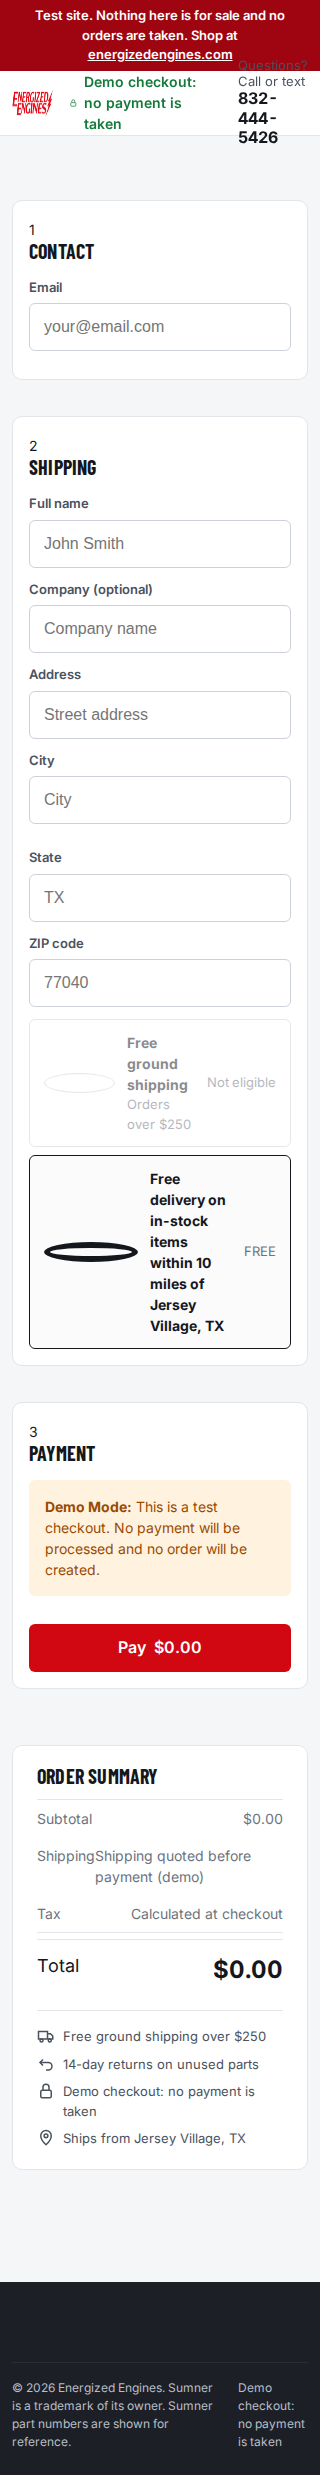
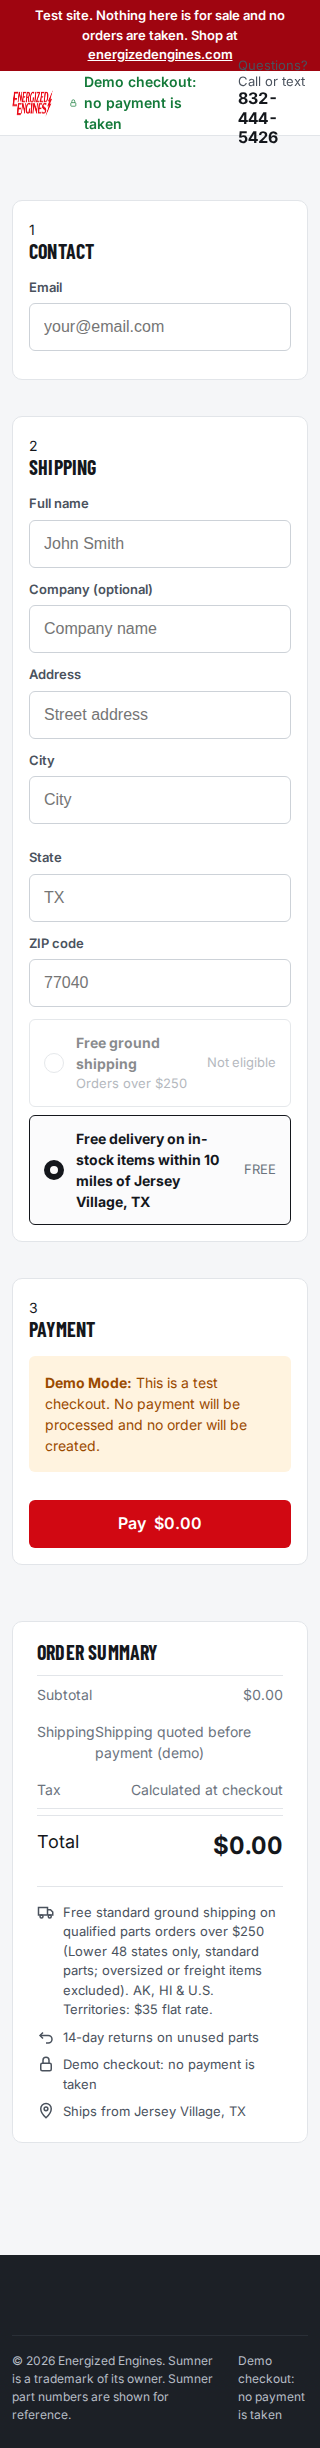
Add shipping policy to cart page via build script

diff --git a/scripts/verify-iris-polish.js b/scripts/verify-iris-polish.js
@@ -1,0 +1,191 @@
+#!/usr/bin/env node
+/**
+ * Verify Iris polish changes
+ */
+
+const fs = require('fs');
+const path = require('path');
+
+const DOCS_DIR = path.join(__dirname, '..', 'docs');
+let errors = [];
+let checks = 0;
+let passed = 0;
+
+console.log('\n🔍 VERIFYING IRIS POLISH CHANGES\n');
+console.log('='.repeat(70));
+
+// Check A: .eeband .card CSS rule
+console.log('\nA. EE band card color for contrast...');
+checks++;
+const cssContent = fs.readFileSync(path.join(DOCS_DIR, 'pages.css'), 'utf8');
+if (cssContent.includes('.eeband .card{color:var(--ink)}')) {
+  console.log('   ✓ CSS rule added');
+  passed++;
+} else {
+  console.log('   ✗ CSS rule missing');
+  errors.push('Missing .eeband .card{color:var(--ink)} rule');
+}
+
+// Check B: Checkout radio inputs
+console.log('\nB. Checkout shipping options with real radio inputs...');
+checks += 4;
+const checkoutHtml = fs.readFileSync(path.join(DOCS_DIR, 'checkout.html'), 'utf8');
+
+if (checkoutHtml.includes('<input type="radio" name="ship"')) {
+  console.log('   ✓ Real radio inputs added');
+  passed++;
+} else {
+  console.log('   ✗ Radio inputs missing');
+  errors.push('Missing radio inputs in checkout');
+}
+
+if (checkoutHtml.match(/<input type="radio" name="ship"/g)?.length >= 2) {
+  console.log('   ✓ Multiple radio options present');
+  passed++;
+} else {
+  console.log('   ✗ Need multiple radio options');
+  errors.push('Need at least 2 radio options');
+}
+
+if (cssContent.includes('.rate>div:not(.rd){flex:1')) {
+  console.log('   ✓ CSS layout for radio buttons');
+  passed++;
+} else {
+  console.log('   ✗ CSS layout missing');
+  errors.push('Missing .rate>div:not(.rd){flex:1} rule');
+}
+
+if (cssContent.includes('.rd{width:20px;height:20px')) {
+  console.log('   ✓ Radio dot sizing correct');
+  passed++;
+} else {
+  console.log('   ✗ Radio dot sizing incorrect');
+  errors.push('.rd sizing incorrect');
+}
+
+// Check C: Home EE brand link color
+console.log('\nC. Home EE brand link color...');
+checks++;
+const indexHtml = fs.readFileSync(path.join(DOCS_DIR, 'index.html'), 'utf8');
+if (indexHtml.includes('Shop all') && indexHtml.includes('EE brand parts</a>') && 
+    indexHtml.includes('style="color:var(--on-dark-2)"')) {
+  console.log('   ✓ Link color set to var(--on-dark-2)');
+  passed++;
+} else {
+  console.log('   ✗ Link color not set correctly');
+  errors.push('EE brand link color incorrect');
+}
+
+// Check D: Product pages without inline max-height:600px
+console.log('\nD. Product images without inline max-height:600px...');
+checks++;
+const productFiles = fs.readdirSync(path.join(DOCS_DIR, 'products')).filter(f => f.endsWith('.html'));
+let withMaxHeight = 0;
+productFiles.forEach(file => {
+  const content = fs.readFileSync(path.join(DOCS_DIR, 'products', file), 'utf8');
+  if (content.includes('max-height:600px')) {
+    withMaxHeight++;
+  }
+});
+
+if (withMaxHeight === 0) {
+  console.log(`   ✓ 0 of ${productFiles.length} product pages have inline max-height:600px`);
+  passed++;
+} else {
+  console.log(`   ✗ ${withMaxHeight} of ${productFiles.length} product pages still have inline max-height:600px`);
+  errors.push(`${withMaxHeight} pages still have max-height:600px`);
+}
+
+// Check E: After Market parser and oldPrice count
+console.log('\nE. After Market parser (case-insensitive) and oldPrice values...');
+checks += 2;
+const searchData = JSON.parse(fs.readFileSync(path.join(DOCS_DIR, 'search-data.json'), 'utf8'));
+const withOldPrice = searchData.parts.filter(p => p.oldPrice);
+
+if (withOldPrice.length === 34) {
+  console.log(`   ✓ Exactly 34 parts with oldPrice (expected 34)`);
+  passed++;
+} else {
+  console.log(`   ✗ ${withOldPrice.length} parts with oldPrice (expected 34)`);
+  errors.push(`Expected 34 oldPrice entries, got ${withOldPrice.length}`);
+}
+
+// Check EE 1004 specifically
+const ee1004 = searchData.parts.find(p => p.partNumber === 'EE 1004');
+if (ee1004 && ee1004.oldPrice === '226' && ee1004.price === '120.00') {
+  const savings = (226 - 120).toFixed(2);
+  const percent = Math.round(((226 - 120) / 226) * 100);
+  console.log(`   ✓ EE 1004 shows savings: $${savings} (${percent}%)`);
+  passed++;
+} else {
+  console.log(`   ✗ EE 1004 savings incorrect`);
+  errors.push('EE 1004 does not show correct savings');
+}
+
+// Check F: Shipping policy text
+console.log('\nF. Shipping policy text on cart and checkout...');
+checks += 2;
+const cartHtml = fs.readFileSync(path.join(DOCS_DIR, 'cart.html'), 'utf8');
+const policyText = 'Free standard ground shipping on qualified parts orders over $250';
+
+if (cartHtml.includes(policyText)) {
+  console.log('   ✓ Shipping policy text in cart');
+  passed++;
+} else {
+  console.log('   ✗ Shipping policy text missing from cart');
+  errors.push('Missing shipping policy in cart');
+}
+
+if (checkoutHtml.includes(policyText)) {
+  console.log('   ✓ Shipping policy text in checkout');
+  passed++;
+} else {
+  console.log('   ✗ Shipping policy text missing from checkout');
+  errors.push('Missing shipping policy in checkout');
+}
+
+// Check that key files weren't deleted
+console.log('\nKey files preserved...');
+checks += 5;
+const keyFiles = ['home.js', 'cart.js', 'search.js', 'config.js', 'checkout.html'];
+keyFiles.forEach(file => {
+  const filePath = path.join(DOCS_DIR, file);
+  if (fs.existsSync(filePath)) {
+    const stats = fs.statSync(filePath);
+    if (stats.size > 100) {
+      console.log(`   ✓ ${file} exists (${stats.size} bytes)`);
+      passed++;
+    } else {
+      console.log(`   ✗ ${file} is too small (${stats.size} bytes)`);
+      errors.push(`${file} is too small`);
+    }
+  } else {
+    console.log(`   ✗ ${file} missing`);
+    errors.push(`${file} was deleted`);
+  }
+});
+
+// Check README-checkout.md doesn't exist
+console.log('\nREADME-checkout.md check...');
+checks++;
+if (!fs.existsSync(path.join(DOCS_DIR, 'README-checkout.md'))) {
+  console.log('   ✓ README-checkout.md does not exist (good)');
+  passed++;
+} else {
+  console.log('   ✗ README-checkout.md exists (should not)');
+  errors.push('README-checkout.md should not exist');
+}
+
+// Summary
+console.log('\n' + '='.repeat(70));
+console.log(`\n📊 RESULTS: ${passed}/${checks} checks passed\n`);
+
+if (errors.length === 0) {
+  console.log('✅ ALL CHECKS PASSED\n');
+  process.exit(0);
+} else {
+  console.log('❌ ERRORS:\n');
+  errors.forEach(err => console.log(`   - ${err}`));
+  console.log('');
+  process.exit(1);
+}

diff --git a/scripts/build-redesign.js b/scripts/build-redesign.js
@@ -849,6 +849,8 @@ function buildCartPage() {
 <span>Subtotal</span><span id="cartPageSubtotal" class="num">$0.00</span></div>
 <div style="display:flex;justify-content:space-between;padding:var(--s-4) 0;font-size:var(--fs-24);font-weight:700">
 <span>Total</span><span id="cartPageTotal" class="num">$0.00</span></div>
+<!-- https://energizedengines.com/policies/shipping-policy -->
+<p style="font-size:var(--fs-13);color:var(--muted);margin:var(--s-3) 0;line-height:1.4">Free standard ground shipping on qualified parts orders over $250 (Lower 48 states only, standard parts; oversized or freight items excluded). AK, HI &amp; U.S. Territories: $35 flat rate.</p>
 <a href="${BASE_PATH}/checkout.html" class="btn btn-pri btn-block">Proceed to Checkout</a>
 <a href="${BASE_PATH}/" class="btn btn-sec btn-block" style="margin-top:var(--s-2)">Continue Shopping</a>
 </div></div>

diff --git a/docs/cart.html b/docs/cart.html
@@ -40,6 +40,8 @@
 <span>Subtotal</span><span id="cartPageSubtotal" class="num">$0.00</span></div>
 <div style="display:flex;justify-content:space-between;padding:var(--s-4) 0;font-size:var(--fs-24);font-weight:700">
 <span>Total</span><span id="cartPageTotal" class="num">$0.00</span></div>
+<!-- https://energizedengines.com/policies/shipping-policy -->
+<p style="font-size:var(--fs-13);color:var(--muted);margin:var(--s-3) 0;line-height:1.4">Free standard ground shipping on qualified parts orders over $250 (Lower 48 states only, standard parts; oversized or freight items excluded). AK, HI &amp; U.S. Territories: $35 flat rate.</p>
 <a href="/energized-engines-v2/checkout.html" class="btn btn-pri btn-block">Proceed to Checkout</a>
 <a href="/energized-engines-v2/" class="btn btn-sec btn-block" style="margin-top:var(--s-2)">Continue Shopping</a>
 </div></div>
